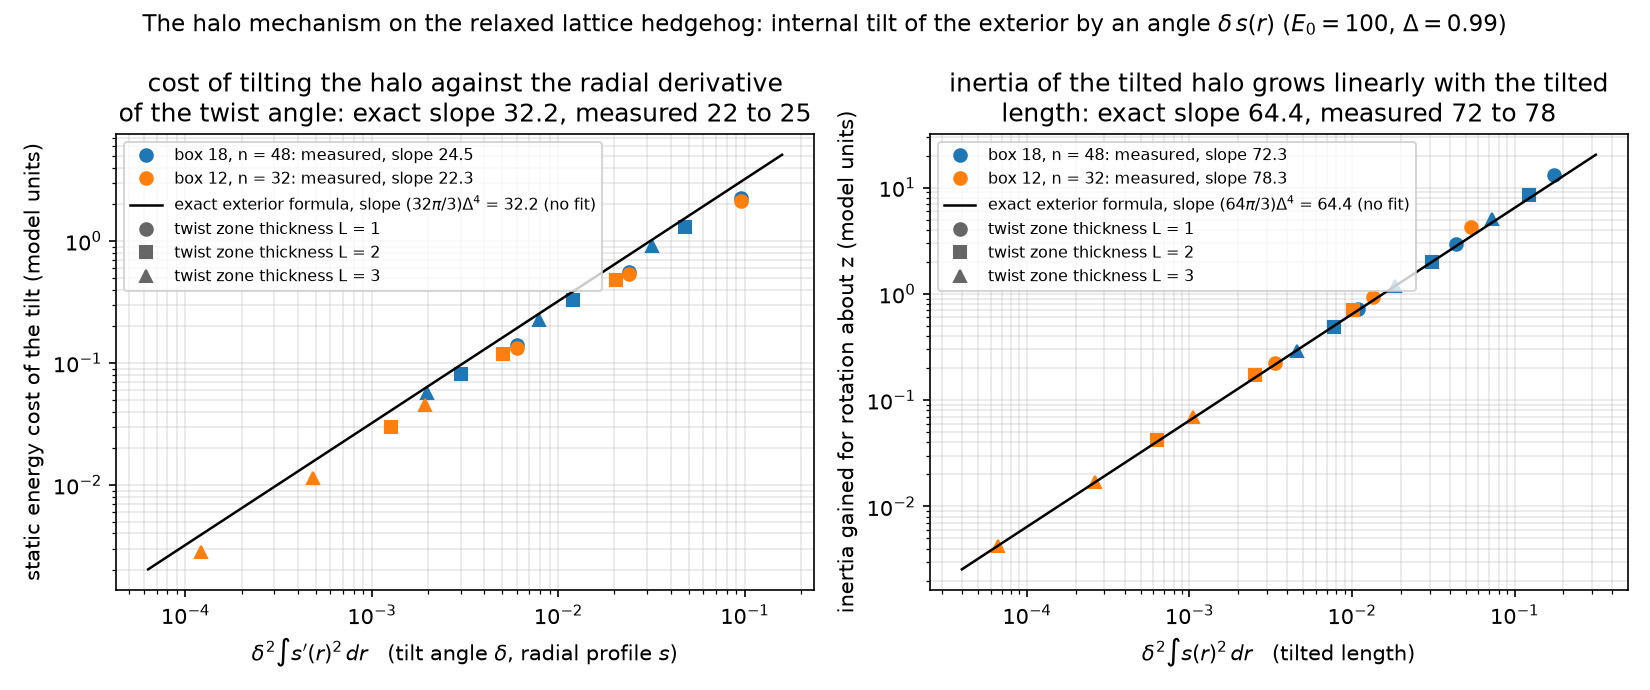
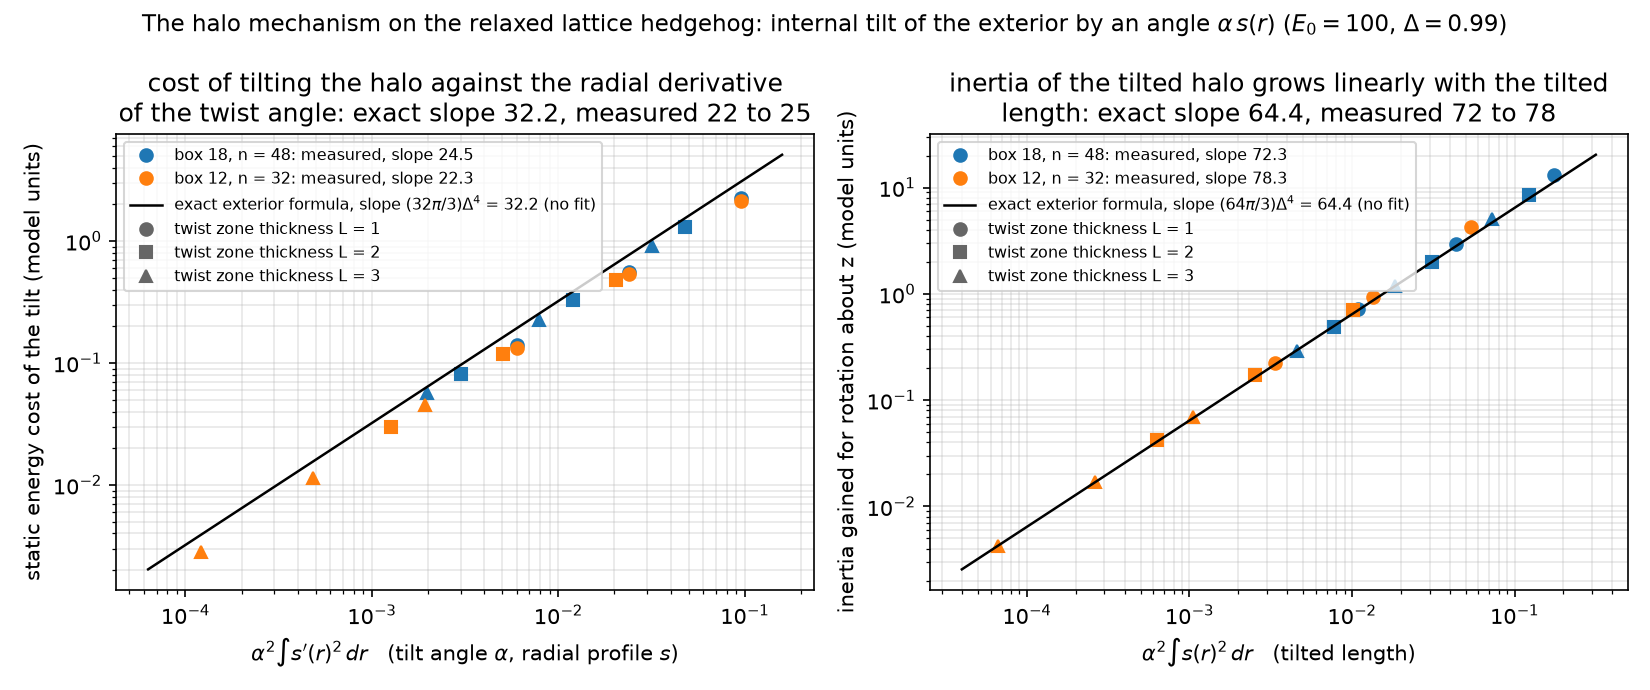
016: readability pass on the README and figures (clock condition defined, slopes as a table, tilt amplitude renamed alpha, rounded numbers, Faber claim softened)
Claude-Session: https://claude.ai/code/session_01QP2nAtvThEMWhiKzux6iWF

diff --git a/reports/016-halo-inertia/make_figures.py b/reports/016-halo-inertia/make_figures.py
@@ -39,13 +39,13 @@ def fig_halo():
     for L, m in marks.items():
         ax[0].plot([], [], m, color='0.4', label=f'twist zone thickness L = {L:g}')
         ax[1].plot([], [], m, color='0.4', label=f'twist zone thickness L = {L:g}')
-    ax[0].set(xlabel="$\\delta^2\\int s'(r)^2\\,dr$   (tilt angle $\\delta$, radial profile $s$)", ylabel='static energy cost of the tilt (model units)',
+    ax[0].set(xlabel="$\\alpha^2\\int s'(r)^2\\,dr$   (tilt angle $\\alpha$, radial profile $s$)", ylabel='static energy cost of the tilt (model units)',
               title='cost of tilting the halo against the radial derivative\nof the twist angle: exact slope 32.2, measured 22 to 25')
-    ax[1].set(xlabel='$\\delta^2\\int s(r)^2\\,dr$   (tilted length)', ylabel='inertia gained for rotation about z (model units)',
+    ax[1].set(xlabel='$\\alpha^2\\int s(r)^2\\,dr$   (tilted length)', ylabel='inertia gained for rotation about z (model units)',
               title='inertia of the tilted halo grows linearly with the tilted\nlength: exact slope 64.4, measured 72 to 78')
     for a in ax:
         a.legend(fontsize=7.5, loc='upper left'); a.grid(alpha=0.3, which='both')
-    fig.suptitle('The halo mechanism on the relaxed lattice hedgehog: internal tilt of the exterior by an angle $\\delta\\,s(r)$ '
+    fig.suptitle('The halo mechanism on the relaxed lattice hedgehog: internal tilt of the exterior by an angle $\\alpha\\,s(r)$ '
                  '($E_0 = 100$, $\\Delta = 0.99$)', fontsize=11)
     fig.tight_layout()
     fig.savefig(os.path.join(R, 'fig_halo.png'), dpi=150)

diff --git a/reports/016-halo-inertia/README.md b/reports/016-halo-inertia/README.md
@@ -1,8 +1,9 @@
 # Report 016 — The halo mechanism: a purely quartic gradient energy gives the hedgehog an unbounded moment of inertia
 
 *2026-09-10 · Maciej J. Mikulski (AI-assisted, see [METHOD](../../METHOD.md)) ·
-why the rigidly rotating electron of this model has no clock and no
-spin quantum: the far field can absorb angular momentum at no cost.*
+why the rigidly rotating electron of this model cannot satisfy the
+rotor clock condition E/Ω = 2J and carries no spin quantum: its far
+field absorbs angular momentum at no cost.*
 
 ## Notation (self-contained)
 
@@ -13,19 +14,24 @@ with η-eigenvalues (e₀, e₁, e₂, e₃) and η-orthonormal eigenframe
 (v₀ timelike, v₁ the charge direction). The Lagrangian is
 L = −F·F − V(M) with F_{μν} = [∂_μN, ∂_νN], the Euclidean norm on
 the matrix indices taken with the field's own metric δ_M = 2v₀v₀ᵀ − η
-(the H-adjoint or "I_norm" form of reports 002–013), and
+(the same choice of norm as in reports 002–013), and
 V = Σ_a (e_a − E_a)² with (E₀, E₁, E₂, E₃) = (100, 1, 0.01, 0.01);
 Δ = E₁ − E₂ = 0.99 is the vacuum gap of the charge direction. The
 electron is the hedgehog v₁ → x̂ at infinity, relaxed on a
 cell-centred lattice (trilinear interpolant, four tetrahedral
-quadrature points per cube; boxes of side 12 with n = 32 and 18 with
+quadrature points per cube; box 12 with n = 32 and box 18 with
 n = 48, spacing 0.375) with the time sector frozen at its vacuum
-(M₀₀ = E₀, M₀ᵢ = 0; the "3×3 sector" of reports 004–013). Units:
-E₁ = 1, unit coupling of F·F. "Rigid rotation" means the rigid-rotor
-functional L(Ω) = aΩ² + bΩ + c of the tensor field rotated about the
-z axis (the Lagrangian is exactly quadratic in ∂ₜM, so a, b, c are
-exact), with J = 2aΩ + b and the fixed-J energy H_J = (J − b)²/(4a) − c.
-The parameters (g, δ) = (8, 0.3) of reports 004–013 are not used here.
+(M₀₀ = E₀, M₀ᵢ = 0, so only the spatial 3×3 block moves, as in every
+static of reports 004–013). Units: E₁ = 1, unit coupling of F·F;
+E_static = 27.29 in box 12, 29.39 in box 18. **Rigid rotation** means
+the rigid-rotor functional L(Ω) = aΩ² + bΩ + c of the tensor field
+rotated about the z axis (the Lagrangian is exactly quadratic in
+∂ₜM, so a, b, c are exact), with J = 2aΩ + b and the fixed-J energy
+H_J = (J − b)²/(4a) − c. The **rotor clock condition** used in this
+series is E = ħΩ with ħ := 2J (the tensor field returns to itself
+after half a turn, so it oscillates at 2Ω), i.e. E/Ω = 2J. The
+tilt amplitude below is called α (`delta` in the scripts); the
+parameters (g, δ) = (8, 0.3) of reports 004–013 are not used here.
 
 ## Result
 
@@ -45,41 +51,48 @@ The parameters (g, δ) = (8, 0.3) of reports 004–013 are not used here.
    ΔE = (32π/3) Δ⁴ ∫ θ′(r)² dr,   I = (64π/3) Δ⁴ ∫ θ(r)² dr
 
    for the static cost and for the inertia about an axis
-   perpendicular to the tilt axis; the r⁻² of the angular derivatives
-   cancels against the volume element, so neither depends on the
-   radius at which the tilt sits.
-3. **The lattice agrees within 25%.** On the relaxed hedgehog, tilted
-   by δ s(r) with s a smoothstep rising over a zone of thickness
-   L = 1, 2, 3 and falling back before the boundary, δ = 0.05–0.2:
-   cost and inertia gain are quadratic in δ (exponents 2.00 and
+   perpendicular to the tilt axis. Both depend on the profile θ(r)
+   and not on where in r it is placed: the r⁻² of the angular
+   derivatives cancels against the volume element.
+3. **The lattice agrees to 25–30%.** On the relaxed hedgehog, tilted
+   by α s(r) with s a smoothstep rising over a zone of thickness
+   L = 1, 2, 3 and falling back before the boundary, α = 0.05–0.2:
+   cost and inertia gain are quadratic in α (exponents 2.00 and
    2.09), the cost falls with L while the inertia grows with the
-   tilted length, and the slopes against δ²∫s′² and δ²∫s² are 24.5
-   and 72.3 in box 18 (22.3 and 78.3 in box 12) against the exterior
-   values 32.2 and 64.4 (`halo_scaling.py`, figure below). The
-   remainder is the gap being below Δ over part of the twist zone.
+   tilted length, and the slopes against α²∫s′² and α²∫s² are
+
+   | | box 12, n = 32 | box 18, n = 48 | exterior formula |
+   |---|---|---|---|
+   | cost slope | 22 | 24 | 32 |
+   | inertia slope | 78 | 72 | 64 |
+
+   (`halo_scaling.py`, figure below). The remainder is the gap being
+   below Δ over part of the twist zone.
 4. **Consequence: the rotational band is degenerate in infinite
-   volume.** A tilt that persists to radius R costs of order Δ⁴δ²/R
-   and carries an inertia of order Δ⁴δ²R, so for every J there are
+   volume.** A tilt that persists to radius R costs of order Δ⁴α²/R
+   and carries an inertia of order Δ⁴α²R, so for every J there are
    rigidly rotating configurations with energy above E_static of
-   order J/R, arbitrarily small. Ω = dE/dJ → 0: there is no rigid-rotor
-   de Broglie clock, and no spin quantum can be assigned to a rotating
-   solution. The argument uses only the quartic gradient energy and
-   the internal symmetry of the far field, so it applies verbatim to
-   Faber's model of topological fermions, whose gradient energy is the
-   same curvature-squared term (hep-th/9910221).
+   order J/R, arbitrarily small. Ω = dE/dJ → 0: the rotor clock
+   condition E/Ω = 2J cannot be met, and no spin quantum can be
+   assigned to a rotating solution. The argument uses only the
+   quartic gradient energy and the internal symmetry of the far
+   field, so it should carry over to Faber's model of topological
+   fermions, whose gradient energy is the same curvature-squared term
+   (hep-th/9910221); that is not checked here.
 5. **What the lattice finds instead is a localized deformation.**
-   Minimizing H_J in box 12 from a symmetry-broken seed (J = 1, 4,
-   10, 18) gives states whose energy above the static hedgehog grows
-   sublinearly (0.03 → 0.25), split about 40/60 between the kinetic
-   part J²/(4a) and the deformation of the shape; Ω falls from 0.026
-   to 0.011 and the inertia 2a grows from 39 to 1700, that is 14 to
-   600 times the rigid inertia 2.8 of the lattice hedgehog
-   (`rotor_branch.py`, figure below). E/Ω is 10³ against the clock
-   condition 2J = 2–36 and moves away from it. The halo tilt of
-   result 4 would cost J/R ≈ 0.2–3 in this box, far above the branch,
-   and undercuts it only for box radii beyond about 80–190: the
-   infinite-volume degeneracy is out of the lattice's reach, and the
-   box branch is not a measurement of it.
+   Minimizing H_J in box 12 from a symmetry-broken seed at J = 1, 4,
+   10, 18 gives states whose energy above E_static = 27.29 is 0.03 at
+   J = 1 and 0.25 at J = 18, growing sublinearly and split about
+   40/60 between the kinetic part J²/(4a) and the deformation of the
+   shape. Between J = 1 and 18 the frequency Ω falls from 0.026 to
+   0.011 and the inertia 2a grows from 39 to 1700, against the rigid
+   inertia 2.8 of the static lattice hedgehog (`rotor_branch.py`,
+   figure below). The clock condition is E/Ω = 2J: at J = 4 the
+   branch gives E/Ω ≈ 1800 against 2J = 8, and the ratio grows with
+   J. The halo tilt of result 4 would cost J/R ≈ 0.2–3 in this box,
+   far above the branch, and undercuts it only for box radii beyond
+   about 80–190: the infinite-volume degeneracy is out of the
+   lattice's reach, and the box branch is not a measurement of it.
 
 ![halo](results/fig_halo.png)
 
@@ -87,17 +100,11 @@ The parameters (g, δ) = (8, 0.3) of reports 004–013 are not used here.
 
 ## Relation to reports 009 and 011
 
-Reports 009 and 011, in the (g, δ) = (8, 0.3) conventions, found
-rigid rotations of the non-equivariant hedgehog to be *extensive*
-(inertia growing like L^2.9 with the box) and prescribed-J
-minimization to buy its inertia in the periphery (centroid r ≈ 15)
-rather than in the core. Results 2–4 supply a mechanism of exactly
-that kind: the cheapest inertia of a purely quartic hedgehog lives in
-the far field, where it is a length times δ², and the cost of buying
-it is a radial derivative that can be spread over the whole box. The
-identification is proposed, not measured: no run at (g, δ) = (8, 0.3)
-is made here, and the mapping of the two conventions is only stated
-in report 015.
+Those reports, in the (g, δ) = (8, 0.3) conventions, found the
+inertia of a rigidly rotating hedgehog to grow with the box and the
+inertia bought by prescribed-J minimization to sit in the periphery;
+results 2–4 give a mechanism of exactly that kind. The identification
+is proposed, not measured: no run at (g, δ) = (8, 0.3) is made here.
 
 ## What this report does not show
 
@@ -106,7 +113,7 @@ in report 015.
   tilt zones (r = 3 to the boundary) overlap the region where e₁ is
   still recovering, and the twist profile is a fixed smoothstep, not
   an optimized one. One tilt axis and one rotation axis (perpendicular)
-  are measured; angles δ ≤ 0.2 and thicknesses L ≤ 3.
+  are measured; angles α ≤ 0.2 and thicknesses L ≤ 3.
 - The finite-box branch is not converged along the soft box-adapted
   translation mode (final gradient norms 3·10⁻³–3.5·10⁻²), so its
   energies are upper bounds; it is a single box (12) and a single
@@ -131,7 +138,7 @@ in report 015.
 |---|---|
 | exterior reduces to 4Δ⁴ Σ(n·(∂n×∂n))² | `exterior_check.py` → `results/exterior_check.json` |
 | exact tilt cost (32π/3)Δ⁴∫θ′² and inertia (64π/3)Δ⁴∫θ² | `halo_check.py` → `results/halo_check.json` |
-| lattice tilt scan on the relaxed hedgehog, both boxes | `halo_scaling.py` → `results/halo_scaling_n48_box18.json`, `results/halo_scaling_n32_box12.json` |
+| lattice tilt scan on the relaxed hedgehog, both boxes (α is `delta` there) | `halo_scaling.py` → `results/halo_scaling_n48_box18.json`, `results/halo_scaling_n32_box12.json` |
 | rotating branch at fixed J, re-evaluated exactly from the committed fields; halo-tilt estimate and crossover radius | `rotor_branch.py` → `results/rotor_branch.json` |
 | the fields: relaxed hedgehogs (box 12 n = 32, box 18 n = 48) and the four rotating states | `results/fields/*.pt` (found on the GPU by the development repository's `run_static.py` and `run_spinning.py`, the latter included here) |
 | figures | `make_figures.py` → `results/fig_halo.png`, `results/fig_rotor.png` |
